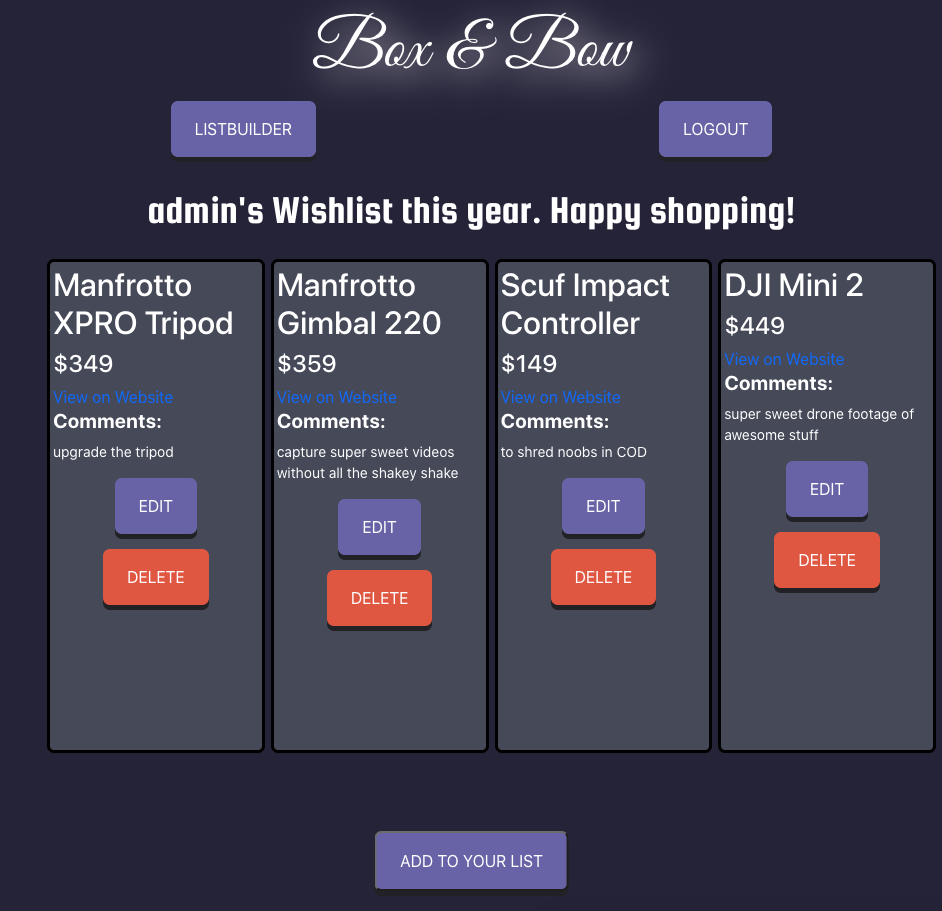
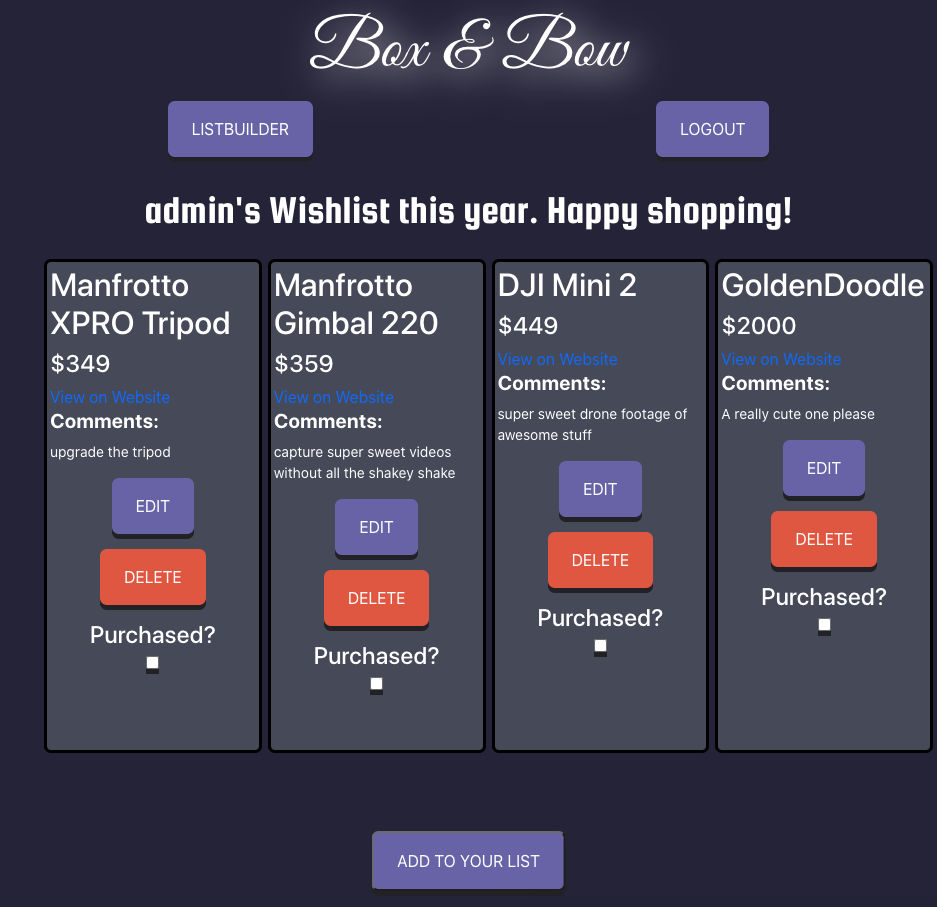
finalizes Box & Bow

diff --git a/src/components/Form.jsx b/src/components/Form.jsx
@@ -9,10 +9,11 @@ const Form = (props) => {
   // console.log("Action: ", action)
   // console.log("State: ", state)
   // console.log("Initial Form Data: ", state[action])
+  // console.log(props)
   
   const [formData, setFormData] = React.useState(state[action]);
 
-  console.log(formData)
+  // console.log(formData)
 
   const actions = {
         new: () => {
@@ -38,13 +39,13 @@ const Form = (props) => {
     }
 
   const handleChange = (event) => {
-    setFormData({...formData, [event.target.name]: event.target.value})
+    setFormData({...formData, [event.target.name] : event.target.value})
   }
 
   const handleSubmit = (event) => {
     event.preventDefault()
     actions[action]().then((data) => {
-        props.getGifts()
+        // props.getGifts()
         props.history.push("/listbuilder/")
     });
   };
@@ -52,43 +53,40 @@ const Form = (props) => {
 
   return (
     <form onSubmit={handleSubmit}>
-      <div>
-        <input
-          required
+        <input className="form-input" 
           label="Title"
-          placeholderValue="Name of Gift"
+          placeholder="Name of Gift"
           type="text"
-          title="title"
+          name="title"
           value={formData.title}
           onChange={handleChange}
         />
-        <input
+        <input className="form-input"
           label="URL"
-          placeholderValue="Paste URL here"
+          placeholder="Paste URL here"
           type="text"
-          title="url"
+          name="url"
           value={formData.url}
           onChange={handleChange}
         />
-        <input
+        <input className="form-input"
           label="Price"
-          placeholderValue="Enter Price"
+          placeholder="Enter Price"
           type="number"
           helperText="Round up! No decimals needed."
-          title="price"
+          name="price"
           value={formData.price}
           onChange={handleChange}
         />
-        <input
+        <input className="form-input"
           label="Comments"
-          placeholderValue="Enter any comments here"
+          placeholder="Comments"
           type="text"
-          title="comments"
+          name="comments"
           value={formData.comments}
           onChange={handleChange}
         />
         <input className="nav-links" id="pad-me" type="submit" value={action} />
-      </div>
     </form>
   );
 }

diff --git a/src/AppState.jsx b/src/AppState.jsx
@@ -1,4 +1,4 @@
-import React, { useReducer } from 'react'
+import React, { useContext, useReducer } from 'react'
 
 ////
 // Initial State
@@ -22,8 +22,8 @@ const initialState = {
         url: "",
         price: "",
         comments: ""
-    }
-}
+    },
+};
 
 /////
 // Reducer
@@ -35,30 +35,29 @@ const reducer = (state, action) => {
         case "auth":
             newState = {...state, ...action.payload};
             return newState;
-        break;
+            break;
 
         case "logout":
             newState = {...state, token: null, username: null}
             window.localStorage.removeItem("auth")
-            return newState
-        break;
+            return newState;
+            break;
 
         case "getGifts":
             newState = {...state, gifts: action.payload}
-            return newState
-        break;
+            return newState;
+            break;
 
         case "select":
             newState = {...state, edit: action.payload} 
-            return newState
-        break;
+            return newState;
+            break;
 
         default:
             return state;
-        break;
+            break;
     }
-
-}
+};
 
 ///////
 // App Context
@@ -71,7 +70,7 @@ const AppContext = React.createContext(null)
 
 export const AppState = (props) => {
 
-    const [state, dispatch] = useReducer(reducer, initialState)
+    const [state, dispatch] = useReducer(reducer, initialState);
 
     return <AppContext.Provider value={{state, dispatch}}>
         {props.children}

diff --git a/src/pages/Listbuilder.jsx b/src/pages/Listbuilder.jsx
@@ -43,7 +43,7 @@ const Listbuilder = (props) => {
                     <div className="gift" key={gift.id}>
                         <h2>{gift.title}</h2>
                         <h4>${gift.price}</h4>
-                        <a href={gift.url} target="_blank">View on Website</a>
+                        <a href={gift.url} target="_blank" rel="noreferrer">View on Website</a>
                         <h3 className="comments">Comments: </h3><p>{gift.comments}</p>
                         <div className="btn-holder">
                             <div className="nav-links" id="center-txt" onClick={() => {
@@ -61,6 +61,12 @@ const Listbuilder = (props) => {
                                 })
                                 .then(() => getGifts());
                             }}>Delete</div>
+                        </div>
+                        <div id="center-txt">
+                            <h4>Purchased?</h4>
+                        </div>
+                        <div id="center-txt">
+                            <input type="checkbox" className="nav-links"></input>
                         </div>
                     </div>
                 ))}

diff --git a/src/components/App.js b/src/components/App.js
@@ -17,7 +17,7 @@ const App = (props) => {
     } else {
       props.history.push("/")
     }
-  })
+  }, [])
 
   
   return <>
@@ -26,7 +26,7 @@ const App = (props) => {
     <Route exact path="/" component={Home}/>
     <Route path="/auth/:form" component={Auth}/>
     <Route exact path ="/listbuilder" component={Listbuilder} />
-    <Route exact path="/listbuilder/new" component={Form} />
+    <Route path="/listbuilder/:action" component={Form} />
   </Switch>
   </>
 };

diff --git a/src/index.css b/src/index.css
@@ -97,6 +97,7 @@ code {
   margin: 10px;
   height: 50px;
   border: #25252b;
+  z-index: 99999;
 }
 
 #center-txt {

diff --git a/README.md b/README.md
@@ -1,7 +1,17 @@
 # README
 
-work in progress
+Box and Bow is a simple application that allows you to put your holiday shopping list in one, easy-to-use place. Track your wishlist, attach a link, add the price, and even notate the item with some comments. 
+
+This is the home page, what you'll see when you first arrive at the application.
 
 ![alt text](src/images/homepage.png)
 
+Once you start building a list, it will start to take shape like this. 
+
 ![alt text](src/images/listbuilder.png)
+
+Feel free to make a free account and start building your list today!
+
+# Tech used
+
+Box & Bow front end was built using React (create-react-app). There are significant elements of CSS and HTML elements. The fonts are courtesy of Google Fonts.
